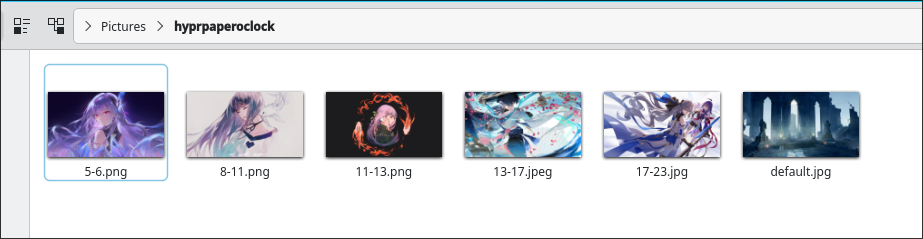
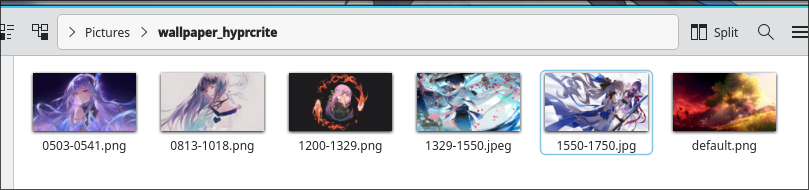
revamped the whole logic (no blinking anymore, minutes added, renamed)

diff --git a/README.md b/README.md
@@ -1,13 +1,12 @@
-# hyprpaperoclock
+# wallpaper hyprcrite
 
 a tool that periodically changes wallpaper on hyprland via hyprpaper. to add to exec_once in your hyprland.conf
 someone probably already made something like this, but i felt like doing one myself for the thrill of it.
-named it this way because o'clock is such a whimsical little word.
 
-### usage: 
-`hyprpaperoclock.sh [--dir PATH_TO_WALLPAPERS] [--monitor NAME] [--conf PATH] [--interval SECONDS]`
+### usage:
+`wphyprcrite.sh [--dir PATH_TO_WALLPAPERS] [--monitor NAME] [--interval SECONDS]`
 ### example:
-`hyprpaperoclock.sh --dir ~/Pictures/my_cute_waifu_wallpapers --monitor eDP-1 --interval 7200`
+`wphyprcrite.sh --dir ~/Pictures/my_cute_waifu_wallpapers --monitor eDP-1 --interval 600`
 ### Defaults:
 ```
 WPDIR="$HOME/Pictures/hyprpaperoclock"
@@ -16,7 +15,7 @@ MONITOR="eDP-1"
 INTERVAL=3600
 ```
 
-name your files like this: 
+name your files like this:
 ![config example with multiple images named number1-number2.ext](./illust.png "config example with multiple images")
 
 please note that rn this script is in a fairly early stage so there aren't necessarily all imaginable cases in terms of error checking and all that.
